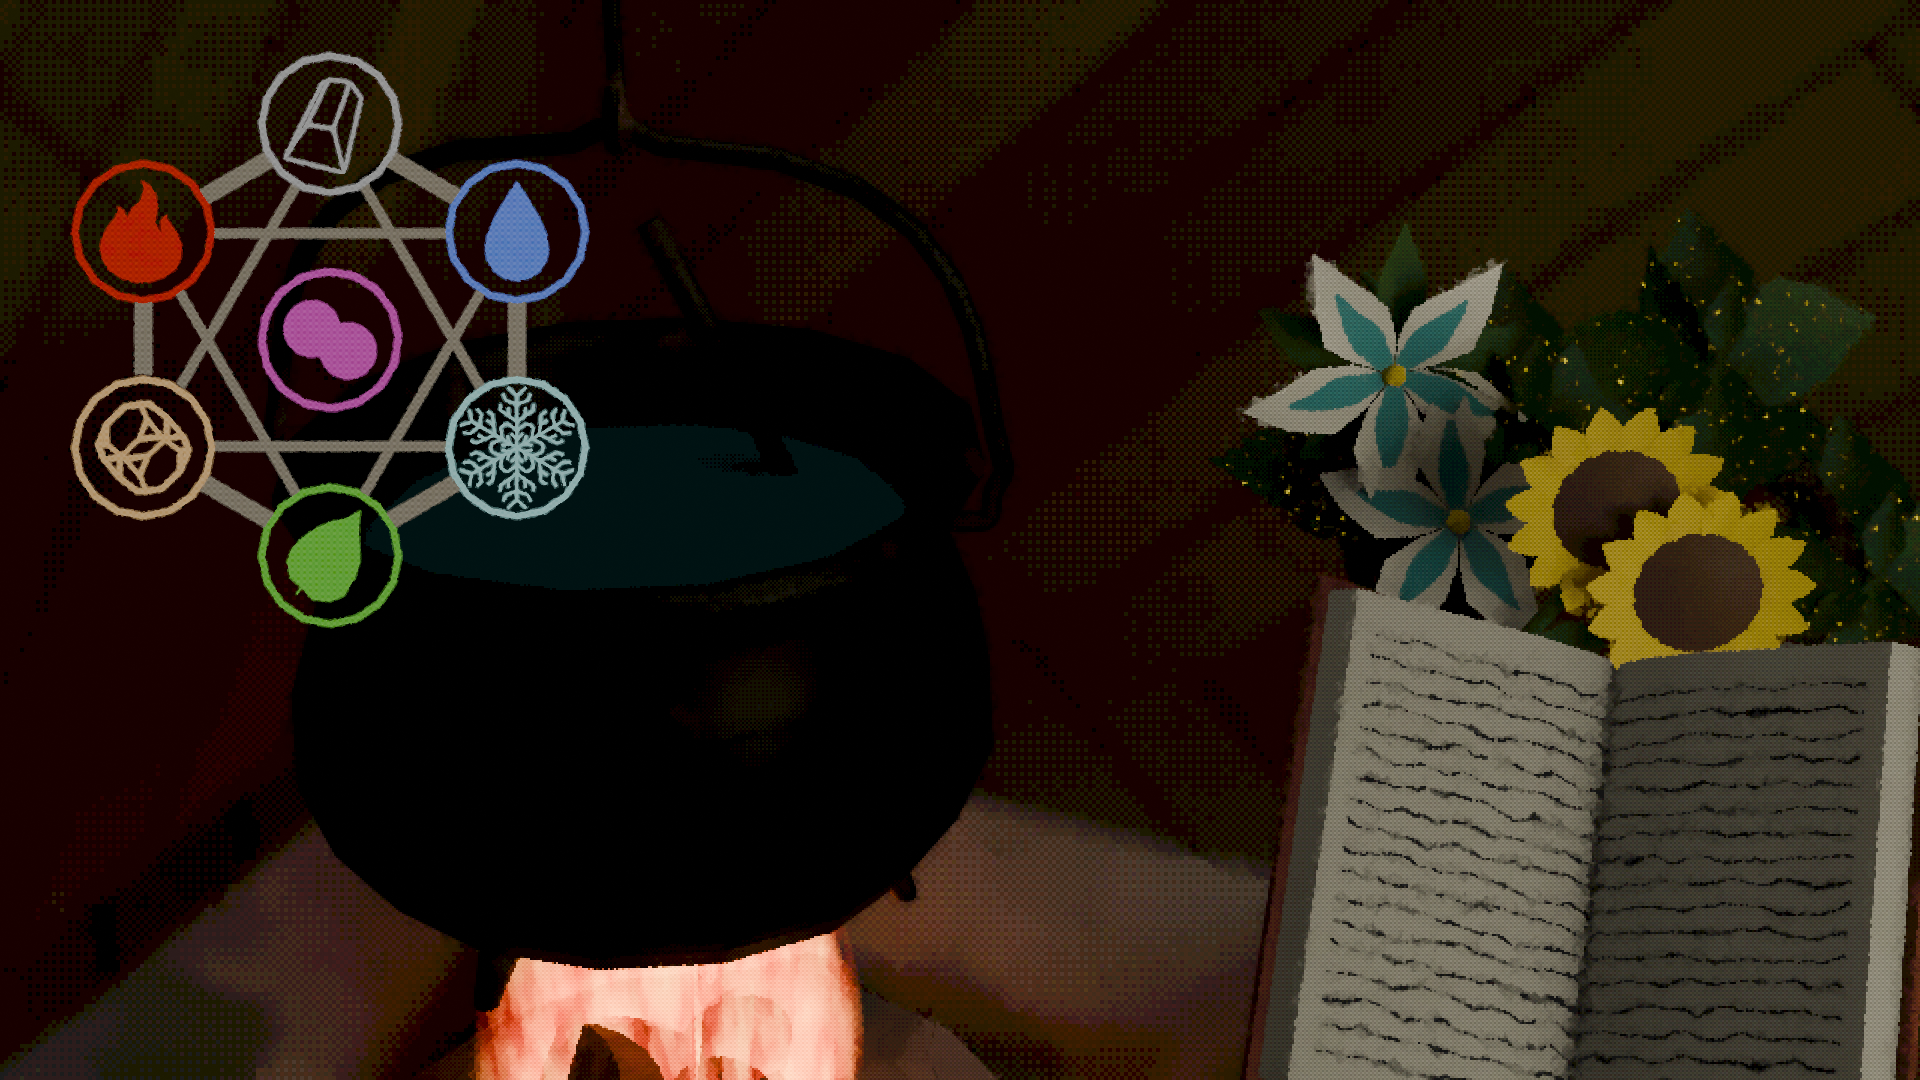
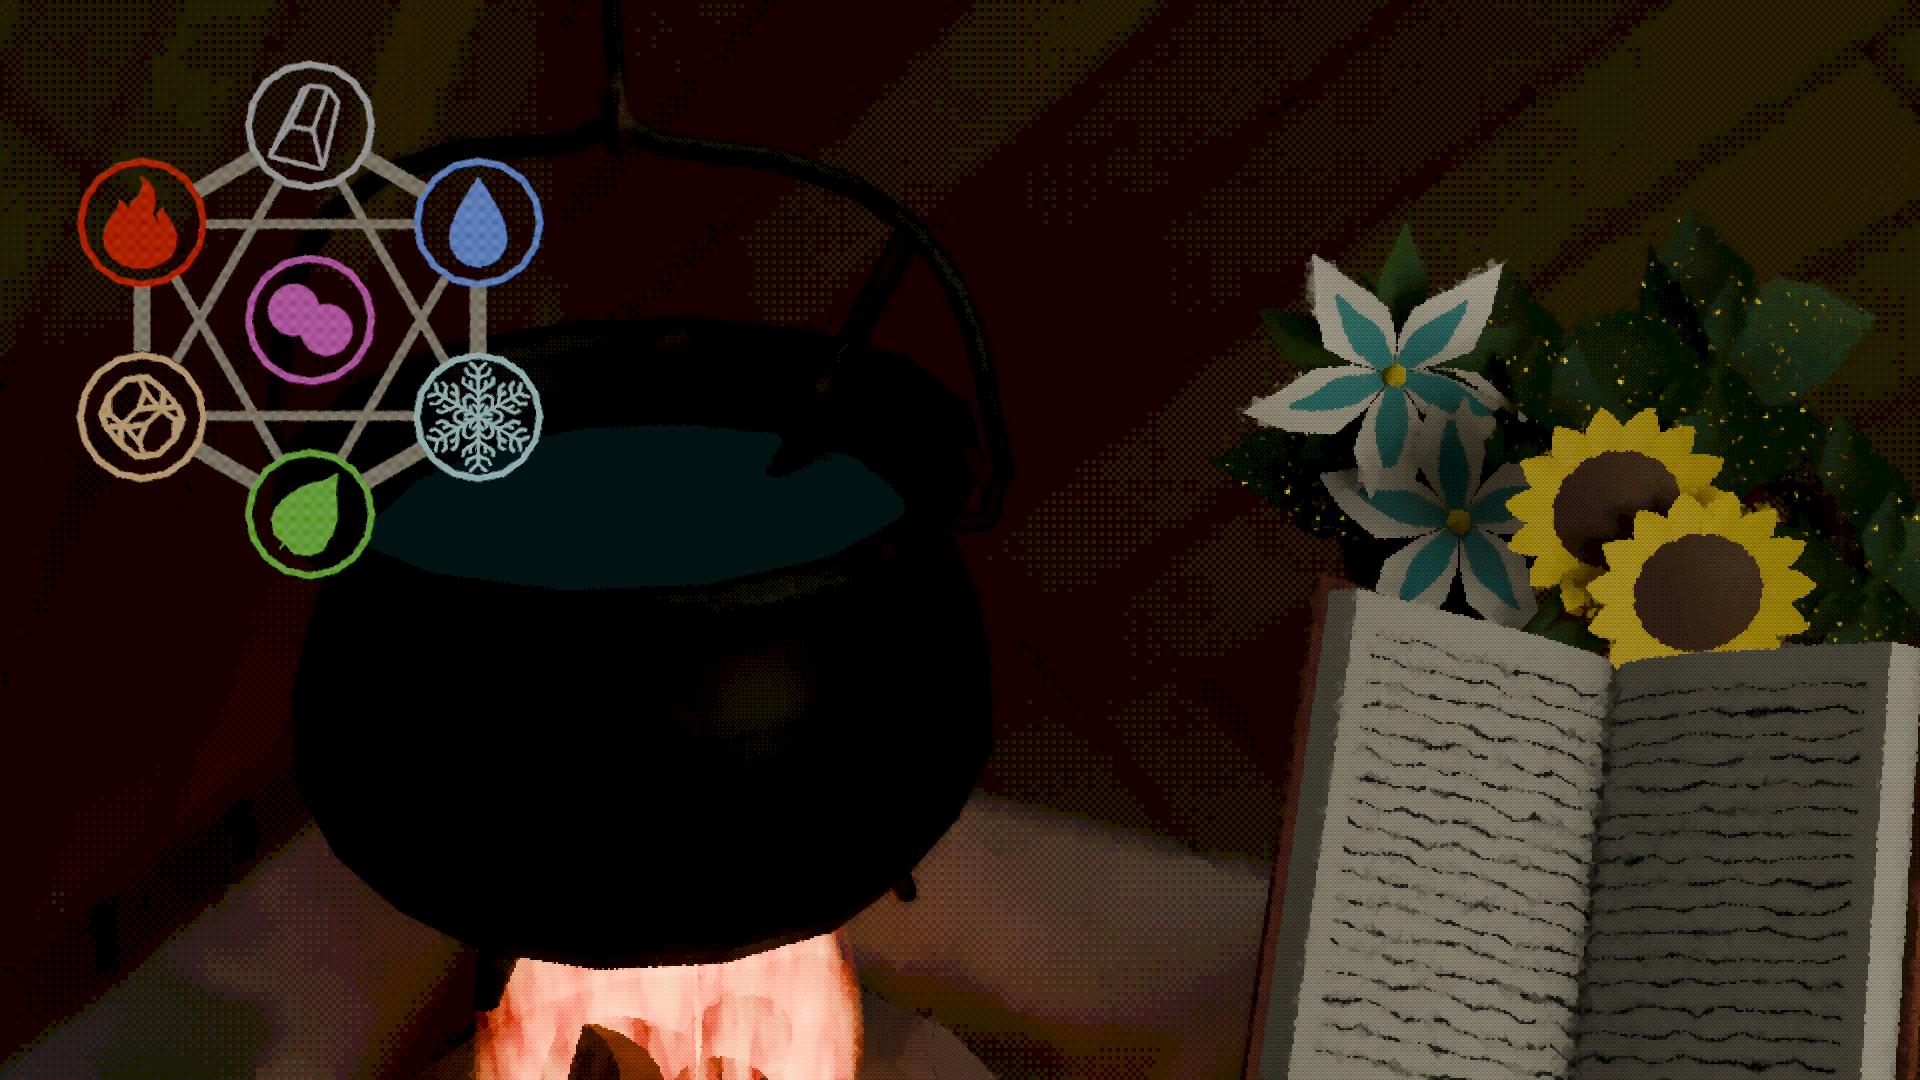
More Graphics and Better Title Screen

Changed region(s): [[0.0312, 0.0306, 0.3125, 0.5806]]

diff --git a/src/game/level.rs b/src/game/level.rs
@@ -4,9 +4,15 @@ use bevy::{audio::Source, prelude::*};
 use bevy_common_assets::ron::RonAssetPlugin;
 
 use crate::{
-    asset_tracking::LoadResource, audio::music, game::{
-        alchemy::{Recipe, RecipeBook}, animation::transition_scene, progression::Progression, tooltip,
-    }, screens::{
+    asset_tracking::LoadResource,
+    audio::music,
+    game::{
+        alchemy::{Recipe, RecipeBook},
+        animation::transition_scene,
+        progression::Progression,
+        tooltip,
+    },
+    screens::{
         Screen,
         gameplay::{
             ShopArea::{self, CookingArea, Storefront, TransitionAnimation},
@@ -276,16 +282,13 @@ impl FromWorld for LevelAssets {
             cauldron_empty_sfx: assets.load("audio/sound_effects/emptying_cauldron.mp3"),
             fire_ambience_sfx: assets
                 .load("audio/sound_effects/Fire/engyclick-firewood-burning-sound-179862.mp3"),
-            cauldron_stir_sfx: assets
-                .load("audio/sound_effects/stir_couldron.mp3"),
+            cauldron_stir_sfx: assets.load("audio/sound_effects/stir_couldron.mp3"),
             // Other
             recipes: assets.load("recipes.ron"),
             progression: assets.load("quests.ron"),
-
         }
     }
 }
-
 
 #[derive(Component, Default, Clone)]
 pub struct FireAmbienceSFX;

diff --git a/src/game/mod.rs b/src/game/mod.rs
@@ -4,14 +4,19 @@ use bevy::{
 };
 
 use crate::{
-    audio::sound_effect, game::{
+    audio::sound_effect,
+    game::{
         animation::{CauldronAnimation, FireAnimation, MortarAnimation, StirerAnimation},
         level::{CauldronAmbienceSFX, FireAmbienceSFX, LevelAssets},
-    }, screens::{
-        Screen::Gameplay, gameplay::{
-            cooking_area::{Cauldron, Fire, Pull, Stirer}, storefront::Mortar,
+    },
+    screens::{
+        Screen::Gameplay,
+        gameplay::{
+            cooking_area::{Cauldron, Fire, Pull, Stirer},
+            storefront::Mortar,
         },
-    }, theme::palette::BUTTON_BACKGROUND,
+    },
+    theme::palette::BUTTON_BACKGROUND,
 };
 
 const TOOLTIP_OFFSET: Vec2 = Vec2::new(15.0, 15.0);
@@ -22,7 +27,12 @@ pub mod level;
 pub mod progression;
 
 pub(super) fn plugin(app: &mut App) {
-    app.add_plugins((alchemy::plugin, progression::plugin, level::plugin, animation::plugin));
+    app.add_plugins((
+        alchemy::plugin,
+        progression::plugin,
+        level::plugin,
+        animation::plugin,
+    ));
     app.add_systems(
         Update,
         (

diff --git a/src/theme/widget.rs b/src/theme/widget.rs
@@ -41,7 +41,16 @@ pub fn label(text: impl Into<String>) -> impl Scene {
     bsn! {
         #Label
         Text({ text.into() })
-        TextFont { font_size: px(24.0) }
+        TextFont { font_size: px(26.0) }
+        TextColor(LABEL_TEXT)
+    }
+}
+
+pub fn title_label(text: impl Into<String>) -> impl Scene {
+    bsn! {
+        #Label
+        Text({ text.into() })
+        TextFont { font_size: px(60.0) }
         TextColor(LABEL_TEXT)
     }
 }
@@ -138,7 +147,7 @@ where
             Children [
                 #ButtonText
                 Text(text)
-                TextFont { font_size: px(40.0) }
+                TextFont { font_size: px(28.0) }
                 TextColor(BUTTON_TEXT)
                 // Don't bubble picking events from the text up to the button.
                 Pickable::IGNORE

diff --git a/src/theme/mod.rs b/src/theme/mod.rs
@@ -30,16 +30,8 @@ fn load_fonts(mut commands: Commands, asset_server: Res<AssetServer>) {
 #[derive(Resource, Clone, Default)]
 struct GlobalFont(FontSource);
 
-fn set_global_font(
-    mut commands: Commands,
-    query: Query<Entity, Added<Text>>,
-    font: Res<GlobalFont>,
-) {
-    for entity in &query {
-        commands.entity(entity).insert(TextFont {
-            font: font.0.clone(),
-            font_size: FontSize::Px(26.0),
-            ..default()
-        });
+fn set_global_font(mut query: Query<&mut TextFont, Added<Text>>, font: Res<GlobalFont>) {
+    for mut text_font in &mut query {
+        text_font.font = font.0.clone();
     }
 }

diff --git a/src/menus/main.rs b/src/menus/main.rs
@@ -16,8 +16,9 @@ fn spawn_main_menu(mut commands: Commands, asset_server: Res<AssetServer>) {
         @widget::ui_root("Main Menu")
         GlobalZIndex(2)
         DespawnOnExit<Menu>(Menu::Main)
-        Sprite {image: "images/gui/TitleScreen.png"}
         Children [
+            @widget::title_label("Alchemist")
+            --
             @widget::button("Play", enter_loading_or_gameplay_screen, button_image.clone(), highlight.clone())
             --
             @widget::button("Settings", open_settings_menu, button_image.clone(), highlight.clone())

diff --git a/src/screens/title.rs b/src/screens/title.rs
@@ -20,7 +20,7 @@ fn close_menu(mut next_menu: ResMut<NextState<Menu>>) {
 fn show_backdrop(mut commands: Commands, assets: Res<AssetServer>) {
     commands.spawn_scene(bsn! {
         #Background
-        Sprite {color: TEMP_CHANGE_ME_SOON_COLOR, rect: Rect::new(0.,0.,1920.,1080.)}
+        Sprite {image: "images/gui/TitleScreen.png"}
         Transform::from_xyz(0.0,0.0,-1.0)
         DespawnOnExit<Screen>(Screen::Title)
     });

diff --git a/src/menus/credits.rs b/src/menus/credits.rs
@@ -23,7 +23,6 @@ fn spawn_credits_menu(mut commands: Commands, asset_server: Res<AssetServer>) {
         @widget::ui_root("Credits Menu")
         GlobalZIndex(2)
         DespawnOnExit<Menu>(Menu::Credits)
-        Sprite {image: "images/gui/TitleScreen.png"}
         Children [
             @widget::header("Created by")
             --
